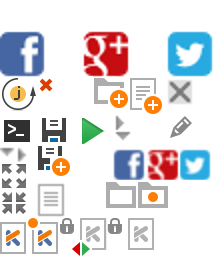
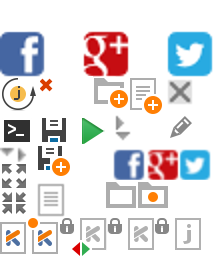
Frontend Java files support

Changed region(s): [[0.6881, 0.8372, 0.9358, 0.9922]]

diff --git a/kotlin.web.demo.server/static/js/KotlinEditor.js b/kotlin.web.demo.server/static/js/KotlinEditor.js
@@ -1,5 +1,5 @@
 /*
- * Copyright 2000-2012 JetBrains s.r.o.
+ * Copyright 2000-2015 JetBrains s.r.o.
  *
  * Licensed under the Apache License, Version 2.0 (the "License");
  * you may not use this file except in compliance with the License.
@@ -48,6 +48,11 @@ var KotlinEditor = (function () {
             },
             open: function (file) {
                 document.getElementById("workspace-overlay").style.display = "none";
+                if (file.getType() != File.TYPE.JAVA_FILE) {
+                    my_editor.setOption("mode", "text/kotlin")
+                } else {
+                    my_editor.setOption("mode", "text/x-java")
+                }
 
                 if (openedFile == null) {
                     openedFile = file;
@@ -199,8 +204,8 @@ var KotlinEditor = (function () {
                             ch: token.end
                         }
                     };
-                    $(completionObjects.list).each(function(idx, element){
-                        element.render = function(element, self, data){
+                    $(completionObjects.list).each(function (idx, element) {
+                        element.render = function (element, self, data) {
                             var icon = document.createElement("div");
                             icon.className = "icon " + data.icon;
                             element.appendChild(icon);
@@ -215,7 +220,7 @@ var KotlinEditor = (function () {
                             tail.innerHTML = data.tail;
                             element.appendChild(tail);
                         };
-                        element.hint = function(cm, self, data){
+                        element.hint = function (cm, self, data) {
                             if ((token.string == '.') || (token.string == ' ') || (token.string == '(')) {
                                 cm.replaceRange(data.text, {line: cur.line, ch: token.end}, {
                                     line: cur.line,

diff --git a/kotlin.web.demo.server/static/js/views/FileView.js b/kotlin.web.demo.server/static/js/views/FileView.js
@@ -1,5 +1,5 @@
 /*
- * Copyright 2000-2014 JetBrains s.r.o.
+ * Copyright 2000-2015 JetBrains s.r.o.
  *
  * Licensed under the Apache License, Version 2.0 (the "License");
  * you may not use this file except in compliance with the License.
@@ -101,6 +101,9 @@ var FileView = (function () {
                     break;
                 case File.TYPE.KOTLIN_TEST_FILE:
                     $(icon).addClass("kotlin-test");
+                    break;
+                case File.TYPE.JAVA_FILE:
+                    $(icon).addClass("java");
                     break;
             }
 

diff --git a/kotlin.web.demo.server/static/css/grid/elements-list.css b/kotlin.web.demo.server/static/css/grid/elements-list.css
@@ -1,5 +1,5 @@
 /*
- * Copyright 2000-2014 JetBrains s.r.o.
+ * Copyright 2000-2015 JetBrains s.r.o.
  *
  * Licensed under the Apache License, Version 2.0 (the "License");
  * you may not use this file except in compliance with the License.
@@ -218,6 +218,13 @@
 
 .icon.kotlin {
     background: url("/static/images/icons.png") no-repeat -0px -111px;
+}
+
+.icon.java.unmodifiable {
+    width: 23px;
+    height: 16px;
+    margin-left: -10px;
+    background: url("/static/images/icons.png") no-repeat -78px -109px;
 }
 
 .icon.kotlin.unmodifiable {

diff --git a/kotlin.web.demo.server/static/js/File.js b/kotlin.web.demo.server/static/js/File.js
@@ -1,5 +1,5 @@
 /*
- * Copyright 2000-2014 JetBrains s.r.o.
+ * Copyright 2000-2015 JetBrains s.r.o.
  *
  * Licensed under the Apache License, Version 2.0 (the "License");
  * you may not use this file except in compliance with the License.
@@ -187,7 +187,8 @@ var File = (function () {
 
     File.TYPE = {
         KOTLIN_FILE: "KOTLIN_FILE",
-        KOTLIN_TEST_FILE: "KOTLIN_TEST_FILE"
+        KOTLIN_TEST_FILE: "KOTLIN_TEST_FILE",
+        JAVA_FILE: "JAVA_FILE"
     };
 
     return File;

diff --git a/kotlin.web.demo.common/src/org/jetbrains/webdemo/Project.java b/kotlin.web.demo.common/src/org/jetbrains/webdemo/Project.java
@@ -1,5 +1,5 @@
 /*
- * Copyright 2000-2012 JetBrains s.r.o.
+ * Copyright 2000-2015 JetBrains s.r.o.
  *
  * Licensed under the Apache License, Version 2.0 (the "License");
  * you may not use this file except in compliance with the License.
@@ -147,6 +147,8 @@ public class Project {
             fileType = ProjectFile.Type.KOTLIN_TEST_FILE;
         } else if(fileDescriptor.get("type").asText().equals("solution")){
             fileType = ProjectFile.Type.SOLUTION_FILE;
+        } else if (fileDescriptor.get("type").asText().equals("java")) {
+            fileType = ProjectFile.Type.JAVA_FILE;
         }
         return new ProjectFile(fileName, fileContent, modifiable, filePublicId, fileType);
     }

diff --git a/kotlin.web.demo.common/src/org/jetbrains/webdemo/ProjectFile.java b/kotlin.web.demo.common/src/org/jetbrains/webdemo/ProjectFile.java
@@ -1,5 +1,5 @@
 /*
- * Copyright 2000-2014 JetBrains s.r.o.
+ * Copyright 2000-2015 JetBrains s.r.o.
  *
  * Licensed under the Apache License, Version 2.0 (the "License");
  * you may not use this file except in compliance with the License.
@@ -81,6 +81,7 @@ public class ProjectFile {
     public enum Type {
         KOTLIN_FILE,
         KOTLIN_TEST_FILE,
-        SOLUTION_FILE
+        SOLUTION_FILE,
+        JAVA_FILE
     }
 }
